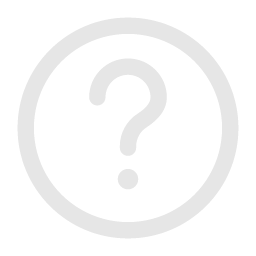
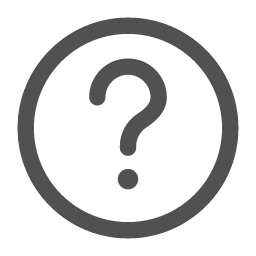
调整主题

Changed region(s): [[0.0625, 0.0625, 0.9375, 0.9375], [0.3438, 0.2188, 0.6562, 0.625], [0.4375, 0.6562, 0.5625, 0.75]]

diff --git a/src/UI/StartPageView.cpp b/src/UI/StartPageView.cpp
@@ -201,7 +201,7 @@ StartPageView::StartPageView()
     setAxis(brls::Axis::COLUMN);
 
     // Background image (absolute positioning, does not participate in layout)
-    beiklive::InsertBackground(this);
+    // beiklive::InsertBackground(this);
 
     
 }
@@ -272,6 +272,12 @@ void StartPageView::createAppPage()
     m_appPage->onOpenFileList = [this]() {
         openFileListPage();
     };
+
+    m_appPage->onOpenSettings = [this]() {
+        openSettingsPage();
+    };
+
+
 }
 
 // ─────────── Page switching ──────────────────────────────────────────────────
@@ -297,12 +303,16 @@ void StartPageView::openFileListPage()
 
     // ── Create a fresh FileListPage ───────────────────────────────────────────
     auto* fileListPage = new FileListPage();
+    // fileListPage->setFilter(ROM_EXTENSIONS, FileListPage::FilterMode::Whitelist);
 
     // ── Create a fresh settings panel and a container that holds both ─────────
     // The container is absolute-positioned so the panel can overlay the list.
     auto* container = new brls::Box(brls::Axis::COLUMN);
     container->setGrow(1.0f);
     container->setBackground(brls::ViewBackground::NONE);
+
+    
+
 
     auto* settingsPanel = new FileSettingsPanel();
     settingsPanel->setWidthPercentage(30.f);
@@ -374,6 +384,20 @@ void StartPageView::openFileListPage()
     frame->setBackground(brls::ViewBackground::NONE);
     brls::Application::pushActivity(new brls::Activity(frame));
 }
+
+void StartPageView::openSettingsPage()
+{
+    auto* m_SettingPage = new SettingPage();
+    auto* frame = new brls::AppletFrame(m_SettingPage);
+    frame->setBackground(brls::ViewBackground::NONE);
+    frame->setHeaderVisibility(brls::Visibility::GONE);
+    frame->setFooterVisibility(brls::Visibility::GONE);
+    frame->setTitle("设置");
+    brls::Application::pushActivity(new brls::Activity(frame));
+
+}
+
+
 
 // ─────────────────────────────────────────────────────────────────────────────
 

diff --git a/include/UI/StartPageView.hpp b/include/UI/StartPageView.hpp
@@ -8,6 +8,7 @@
 #include "common.hpp"
 #include "UI/Pages/AppPage.hpp"
 #include "UI/Pages/FileListPage.hpp"
+#include "UI/Pages/SettingPage.hpp"
 
 // ─────────────────────────────────────────────────────────────────────────────
 //  FileSettingsPanel – absolute-positioned overlay for file operations
@@ -42,7 +43,7 @@ class FileSettingsPanel : public brls::Box
 // ─────────────────────────────────────────────────────────────────────────────
 //  StartPageView
 // ─────────────────────────────────────────────────────────────────────────────
-class StartPageView : public brls::Box
+class StartPageView : public beiklive::UI::BBox
 {
   public:
     StartPageView();
@@ -61,6 +62,7 @@ class StartPageView : public brls::Box
 
     void showAppPage();
     void openFileListPage();
+    void openSettingsPage();
     void createAppPage();
 };
 

diff --git a/src/UI/Utils/styles.cpp b/src/UI/Utils/styles.cpp
@@ -7,7 +7,6 @@ void RegisterStyles()
 {
     ADD_STYLE("brls/highlight/stroke_width", 3.0f);
 
-
     ADD_STYLE("beiklive/header/header_height", 70.0f);
     ADD_STYLE("beiklive/header/font_size", 24.0f);
     ADD_STYLE("beiklive/file_list_page/margin_bottom", 24.0f);
@@ -17,12 +16,33 @@ void RegisterStyles()
 void RegisterThemes()
 {
     ADD_THEME_COLOR("brls/text", nvgRGB(244, 249, 253));
+    ADD_THEME_COLOR("brls/highlight/color2", nvgRGB(248, 81, 73));
+    ADD_THEME_COLOR("brls/highlight/background", nvgRGBA(0, 0, 0, 0));
+
+    ADD_THEME_COLOR("brls/sidebar/background", nvgRGBA(240, 240, 240, 10));
 
 
 
     ADD_THEME_COLOR("beiklive/sidePanel", nvgRGBA(20, 20, 20, 128));
     ADD_THEME_COLOR("beiklive/subtitle", nvgRGBA(31, 31, 31, 128));
-    ADD_THEME_COLOR("beiklive/line", nvgRGBA(31, 31, 31, 256));
+    ADD_THEME_COLOR("beiklive/line", nvgRGBA(31, 31, 31, 255));
+
+
+    ADD_THEME_COLOR("brls/button/primary_enabled_background", nvgRGBA(50, 79, 241, 0));
+    ADD_THEME_COLOR("brls/button/primary_disabled_background", nvgRGBA(201, 201, 209, 0));
+    ADD_THEME_COLOR("brls/button/default_enabled_background", nvgRGBA(255, 255, 255, 0));
+    ADD_THEME_COLOR("brls/button/default_disabled_background", nvgRGBA(255, 255, 255, 0));
+
+
+
+
+
+
+
+
+
+
+
 }
 
 

diff --git a/src/UI/Pages/SettingPage.cpp b/src/UI/Pages/SettingPage.cpp
@@ -1,0 +1,50 @@
+#include "UI/Pages/SettingPage.hpp"
+
+
+SettingPage::SettingPage()
+{
+    m_tabframe = new brls::TabFrame();
+    Init();
+    addView(m_tabframe);
+}
+
+
+
+SettingPage::~SettingPage()
+{
+
+}
+
+void SettingPage::Init()
+{
+    m_tabframe->addTab("界面设置", []() {
+        auto* page = new brls::Box();
+
+        return page;
+    });
+    m_tabframe->addTab("游戏设置", []() {
+        auto* page = new brls::Box();
+
+        return page;
+    });
+    m_tabframe->addTab("画面设置", []() {
+        auto* page = new brls::Box();
+
+        return page;
+    });
+    m_tabframe->addTab("声音设置", []() {
+        auto* page = new brls::Box();
+
+        return page;
+    });
+    m_tabframe->addTab("按键映射", []() {
+        auto* page = new brls::Box();
+
+        return page;
+    });
+    m_tabframe->addTab("调试工具", []() {
+        auto* page = new brls::Box();
+
+        return page;
+    });
+}

diff --git a/include/UI/Pages/FileListPage.hpp b/include/UI/Pages/FileListPage.hpp
@@ -67,7 +67,7 @@ class FileListItemView : public brls::Box
 // ─────────────────────────────────────────────────────────────────────────────
 //  FileListPage  –  pure-code file-browser page
 // ─────────────────────────────────────────────────────────────────────────────
-class FileListPage : public brls::Box
+class FileListPage : public beiklive::UI::BBox
 {
   public:
     enum class FilterMode { Whitelist, Blacklist };

diff --git a/src/UI/Pages/AppPage.cpp b/src/UI/Pages/AppPage.cpp
@@ -199,8 +199,9 @@ AppPage::AppPage()
     m_ButtonRow->addButton(BK_RES(path_prefix + "jifen_64.png"), "数据管理", []() {
         brls::Logger::debug("数据管理");
     });
-    m_ButtonRow->addButton(BK_RES(path_prefix + "shezhi_64.png"), "设置", []() {
+    m_ButtonRow->addButton(BK_RES(path_prefix + "shezhi_64.png"), "设置", [this]() {
         brls::Logger::debug("设置");
+        if(onOpenSettings) onOpenSettings();
     });
     m_ButtonRow->addButton(BK_RES(path_prefix + "bangzhu_64.png"), "关于", []() {
         brls::Logger::debug("关于");

diff --git a/main.cpp b/main.cpp
@@ -138,11 +138,11 @@ int main(int argc, char* argv[]) {
 
 	RunnerInit();
 
+	brls::Application::getPlatform()->setThemeVariant(brls::ThemeVariant::DARK);
 	beiklive::RegisterStyles();
 	beiklive::RegisterThemes();
 
 
-	// brls::Application::getPlatform()->setThemeVariant(brls::ThemeVariant::DARK);
 
 	// brls::Application::setGlobalQuit(true);
 

diff --git a/src/UI/Utils/Utils.cpp b/src/UI/Utils/Utils.cpp
@@ -4,6 +4,21 @@
 
 namespace beiklive::UI
 {
+        
+    BBox::BBox()
+    {
+        beiklive::InsertBackground(this);
+    }
+
+    BBox::BBox(brls::Axis flexDirection)
+    {
+        beiklive::InsertBackground(this);
+        
+    }
+
+
+
+
     BrowserHeader::BrowserHeader()
     {
         

diff --git a/include/UI/Pages/AppPage.hpp b/include/UI/Pages/AppPage.hpp
@@ -65,6 +65,8 @@ public:
 
     /// 用户点击"文件列表"按钮时调用
     std::function<void()> onOpenFileList;
+    /// 用户点击"设置"按钮时调用
+    std::function<void()> onOpenSettings;
 
 private:
     brls::HScrollingFrame* m_scroll      = nullptr;

diff --git a/include/UI/Utils/Utils.hpp b/include/UI/Utils/Utils.hpp
@@ -8,6 +8,14 @@
 namespace beiklive::UI
 {
 
+class BBox : public brls::Box
+{
+  public:
+    BBox(brls::Axis flexDirection);
+    BBox();
+};
+
+
 // A common header for file browsers, with a title, a path and an info label
 class BrowserHeader : public brls::Box
 {

diff --git a/src/UI/Utils/ProImage.cpp b/src/UI/Utils/ProImage.cpp
@@ -70,7 +70,7 @@ void main()
     vec2 p = vUV;
 
     // Dark blue background
-    vec3 color = vec3(0.02, 0.03, 0.14);
+    vec3 color = vec3(0.74, 0.86, 0.14);
 
     // Two lines centred vertically, interleaving with sine/cosine waves
     float amplitude = 0.06;

diff --git a/include/UI/Pages/SettingPage.hpp b/include/UI/Pages/SettingPage.hpp
@@ -1,0 +1,15 @@
+#pragma once
+#include <borealis.hpp>
+#include "common.hpp"
+
+
+class SettingPage : public beiklive::UI::BBox
+{
+  public:
+    SettingPage();
+    ~SettingPage();
+    void Init();
+
+  private:
+    brls::TabFrame* m_tabframe = nullptr;
+};
